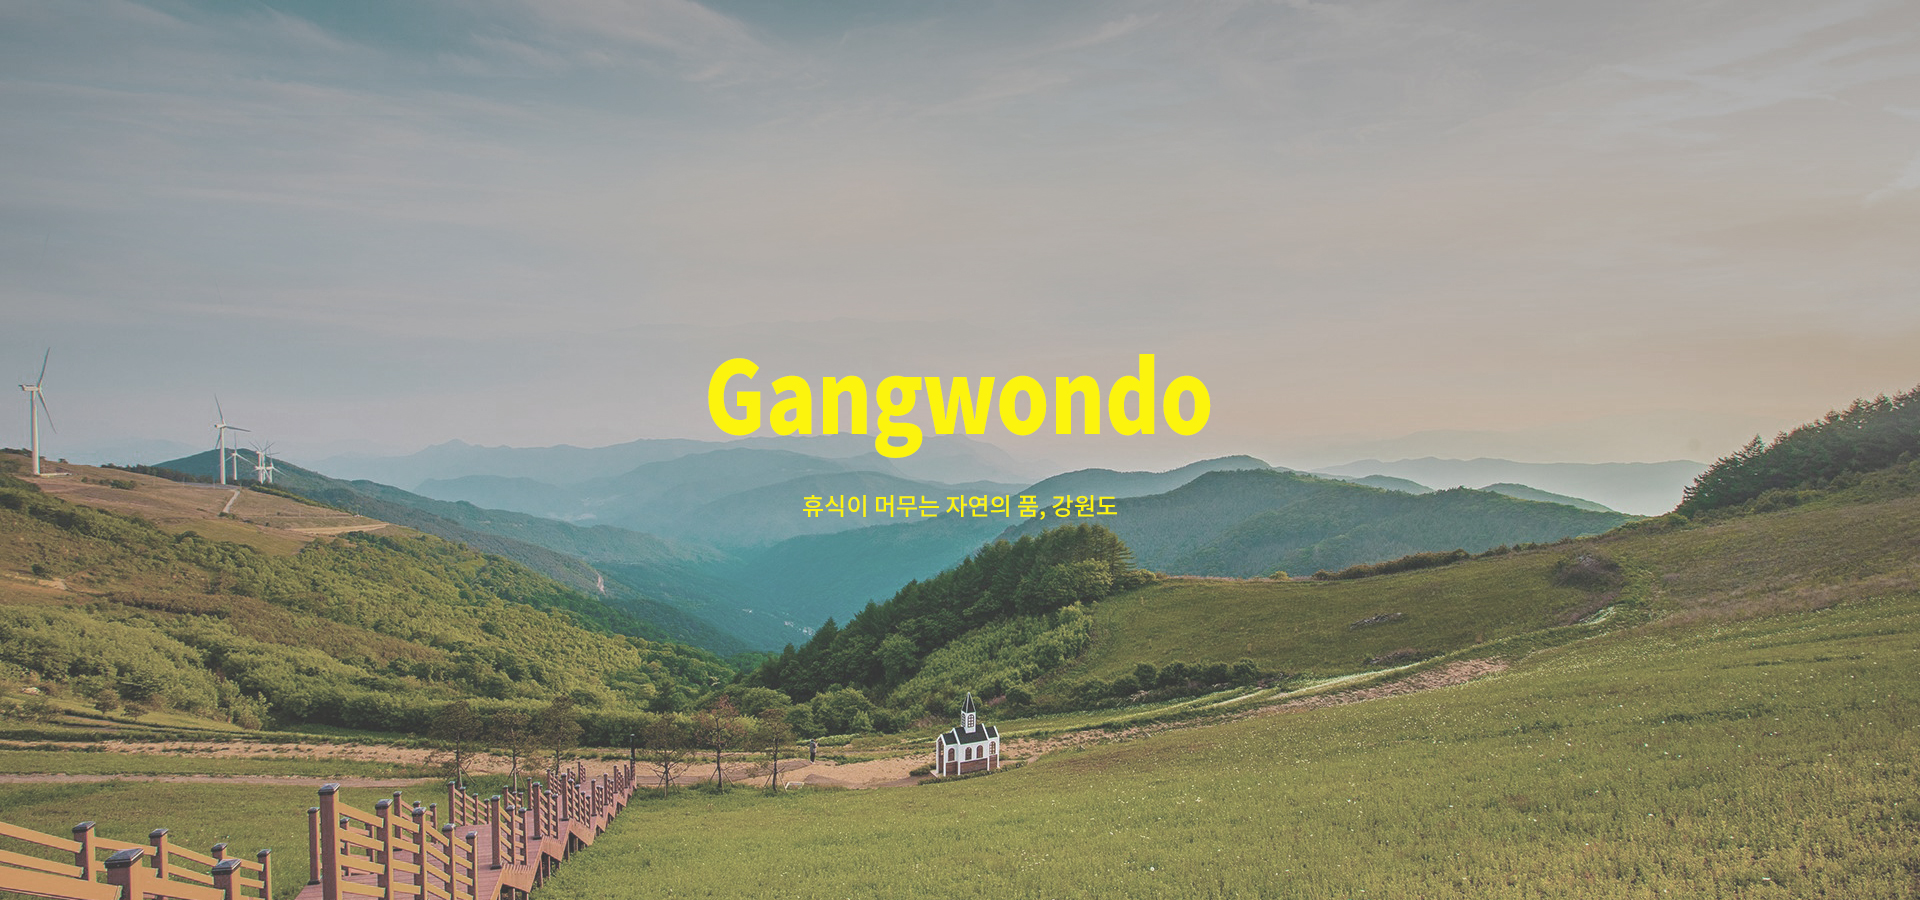
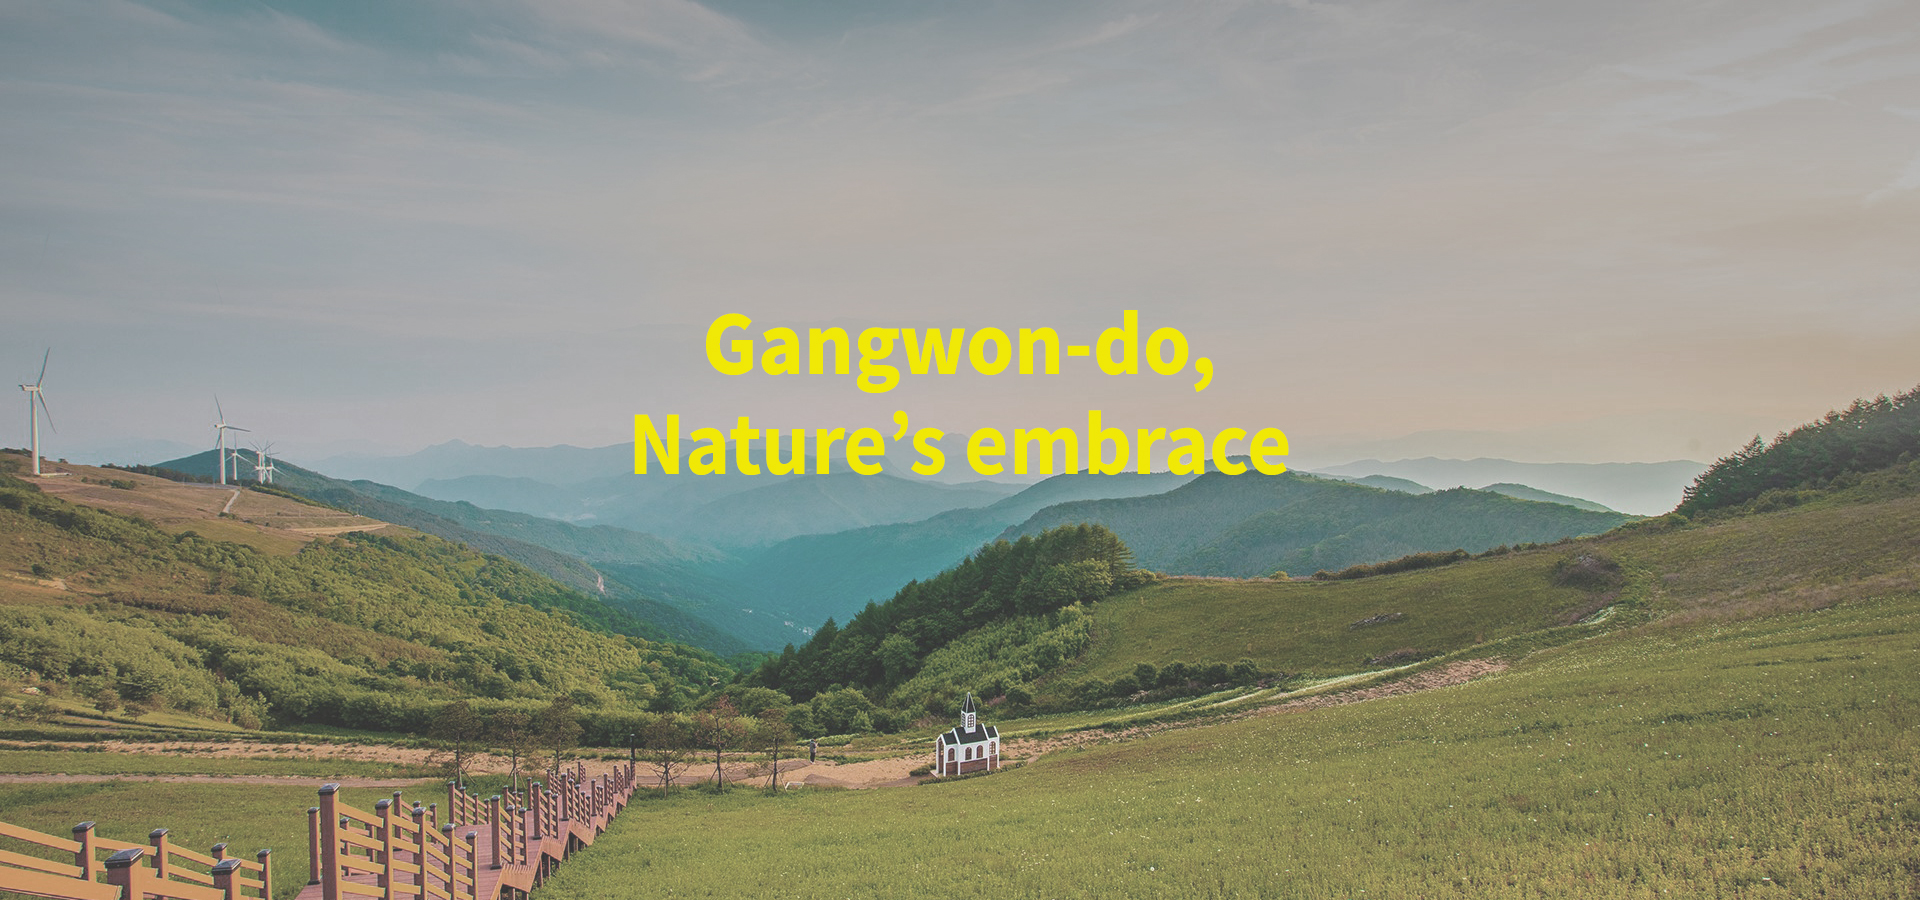
#37 0515 11:46 이미지수정완

Changed region(s): [[0.3125, 0.3422, 0.6875, 0.5911]]

diff --git a/react/src/pages/Area/ChungcheongbukPage.jsx b/react/src/pages/Area/ChungcheongbukPage.jsx
@@ -1,14 +1,13 @@
+import bg1 from "../../assets/images/Chungcheongbuk_bg1.jpg";
+import bg2 from "../../assets/images/Chungcheongbuk_bg2.jpg";
 import RegionPage from "./RegionPage";
-import bg1 from "../../assets/images/Chungcheongbuk_bg1.png";
-import bg2 from "../../assets/images/Chungcheongbuk_bg2.png";
-import bg3 from "../../assets/images/Chungcheongbuk_bg3.png";
 
 
 function ChungcheongbukPage() {
   return (
     <RegionPage
-      regionName="충청북도"
-      backgroundImages={[bg1, bg2, bg3]}
+      // regionName="충청북도"
+      backgroundImages={[bg1, bg2]}
       cities={["단양", "청주", "제천"]}
     />
   );

diff --git a/react/src/pages/Area/ChungcheongnamPage.jsx b/react/src/pages/Area/ChungcheongnamPage.jsx
@@ -1,14 +1,13 @@
+import bg1 from "../../assets/images/Chungcheongnam_bg1.jpg";
+import bg2 from "../../assets/images/Chungcheongnam_bg2.jpg";
 import RegionPage from "./RegionPage";
-import bg1 from "../../assets/images/Chungcheongnam_bg1.png";
-import bg2 from "../../assets/images/Chungcheongnam_bg2.png";
-import bg3 from "../../assets/images/Chungcheongnam_bg3.png";
 
 
 function ChungcheongnamPage() {
   return (
     <RegionPage
-      regionName="충청남도"
-      backgroundImages={[bg1, bg2, bg3]}
+      // regionName="충청남도"
+      backgroundImages={[bg1, bg2]}
       cities={["태안", "공주", "보령"]}
     />
   );

diff --git a/react/src/pages/Area/GyeongsangnamPage.jsx b/react/src/pages/Area/GyeongsangnamPage.jsx
@@ -1,14 +1,13 @@
-import bg1 from "../../assets/images/gangwondo_bg1.jpg";
-import bg2 from "../../assets/images/gangwondo_bg2.jpg";
-import bg3 from "../../assets/images/gangwondo_bg3.jpg";
+import bg1 from "../../assets/images/Gyeongsangnam_bg1.jpg";
+import bg2 from "../../assets/images/Gyeongsangnam_bg2.jpg";
 import RegionPage from "./RegionPage";
 
 
 function GyeongsangnamPage() {
   return (
     <RegionPage
-      regionName="경상남도"
-      backgroundImages={[bg1, bg2, bg3]}
+      // regionName="경상남도"
+      backgroundImages={[bg1, bg2]}
       cities={["통영", "거제", "진주"]}
     />
   );

diff --git a/react/src/pages/Area/GyeongsangbukPage.jsx b/react/src/pages/Area/GyeongsangbukPage.jsx
@@ -1,13 +1,12 @@
-import bg1 from "../../assets/images/gangwondo_bg1.jpg";
-import bg2 from "../../assets/images/gangwondo_bg2.jpg";
-import bg3 from "../../assets/images/gangwondo_bg3.jpg";
+import bg1 from "../../assets/images/Gyeongsangbuk_bg1.jpg";
+import bg2 from "../../assets/images/Gyeongsangbuk_bg2.jpg";
 import RegionPage from "./RegionPage";
 
 function GyeongsangbukPage() {
   return (
     <RegionPage
-      regionName="경상북도"
-      backgroundImages={[bg1, bg2, bg3]}
+      // regionName="경상북도"
+      backgroundImages={[bg1, bg2]}
       cities={["경주", "안동", "포항"]}
     />
   );

diff --git a/react/src/pages/Area/JejuPage.jsx b/react/src/pages/Area/JejuPage.jsx
@@ -1,13 +1,12 @@
-import bg1 from "../../assets/images/gangwondo_bg1.jpg";
-import bg2 from "../../assets/images/gangwondo_bg2.jpg";
-import bg3 from "../../assets/images/gangwondo_bg3.jpg";
+import bg2 from "../../assets/images/Jeju_bg1.jpg";
+import bg1 from "../../assets/images/Jeju_bg2.jpg";
 import RegionPage from "./RegionPage";
 
 function JejuPage() {
   return (
     <RegionPage
-      regionName="제주특별자치도"
-      backgroundImages={[bg1, bg2, bg3]}
+      // regionName="제주특별자치도"
+      backgroundImages={[bg1, bg2]}
       cities={["서귀포", "성산", "애월"]}
     />
   );

diff --git a/react/src/pages/Area/GyeonggidoPage.jsx b/react/src/pages/Area/GyeonggidoPage.jsx
@@ -1,14 +1,13 @@
-import bg1 from "../../assets/images/gangwondo_bg1.jpg";
-import bg2 from "../../assets/images/gangwondo_bg2.jpg";
-import bg3 from "../../assets/images/gangwondo_bg3.jpg";
+import bg1 from "../../assets/images/Gyeonggido_bg1.jpg";
+import bg2 from "../../assets/images/Gyeonggido_bg2.jpg";
 import RegionPage from "./RegionPage";
 
 
 function GyeonggidoPage() {
   return (
     <RegionPage
-      regionName="경기도"
-      backgroundImages={[bg1, bg2, bg3]}
+      // regionName="경기도"
+      backgroundImages={[bg1, bg2]}
       cities={["가평", "수원", "파주  "]}
     />
   );

diff --git a/react/src/pages/Area/JeollabukPage.jsx b/react/src/pages/Area/JeollabukPage.jsx
@@ -1,13 +1,12 @@
-import bg1 from "../../assets/images/gangwondo_bg1.jpg";
-import bg2 from "../../assets/images/gangwondo_bg2.jpg";
-import bg3 from "../../assets/images/gangwondo_bg3.jpg";
+import bg1 from "../../assets/images/Jeollabuk_bg1.jpg";
+import bg2 from "../../assets/images/Jeollabuk_bg2.jpg";
 import RegionPage from "./RegionPage";
 
 function JeollabukPage() {
   return (
     <RegionPage
-      regionName="전라북도"
-      backgroundImages={[bg1, bg2, bg3]}
+      // regionName="전라북도"
+      backgroundImages={[bg1, bg2]}
       cities={["전주", "군산", "남원"]}
     />
   );

diff --git a/react/src/pages/Area/JeollanamPage.jsx b/react/src/pages/Area/JeollanamPage.jsx
@@ -1,13 +1,12 @@
-import bg1 from "../../assets/images/gangwondo_bg1.jpg";
-import bg2 from "../../assets/images/gangwondo_bg2.jpg";
-import bg3 from "../../assets/images/gangwondo_bg3.jpg";
+import bg2 from "../../assets/images/Jeollanam_bg1.jpg";
+import bg1 from "../../assets/images/Jeollanam_bg2.jpg";
 import RegionPage from "./RegionPage";
 
 function JeollanamPage() {
   return (
     <RegionPage
-      regionName="전라남도"
-      backgroundImages={[bg1, bg2, bg3]}
+      // regionName="전라남도"
+      backgroundImages={[bg1, bg2]}
       cities={["여수", "순천", "담양"]}
     />
   );

diff --git a/react/src/pages/Area/SeoulPage.jsx b/react/src/pages/Area/SeoulPage.jsx
@@ -1,13 +1,12 @@
-import bg1 from "../../assets/images/gangwondo_bg1.jpg";
-import bg2 from "../../assets/images/gangwondo_bg2.jpg";
-import bg3 from "../../assets/images/gangwondo_bg3.jpg";
+import bg1 from "../../assets/images/Seoul_bg1.jpg";
+import bg2 from "../../assets/images/Seoul_bg2.jpg";
 import RegionPage from "./RegionPage";
 
 function SeoulPage() {
   return (
     <RegionPage
-      regionName="서울특별시"
-       backgroundImages={[bg1, bg2, bg3]}
+      // regionName="서울특별시"
+       backgroundImages={[bg1, bg2]}
       cities={["강남", "종로", "홍대"]}
     />
   );

diff --git a/react/src/pages/Area/BusanPage.jsx b/react/src/pages/Area/BusanPage.jsx
@@ -1,13 +1,12 @@
+import bg1 from "../../assets/images/Busan_bg1.jpg";
+import bg2 from "../../assets/images/Busan_bg2.jpg";
 import RegionPage from "./RegionPage";
-import bg1 from "../../assets/images/Busan_bg1.png";
-import bg2 from "../../assets/images/Busan_bg2.png";
-import bg3 from "../../assets/images/Busan_bg3.png";
 
 function BusanPage() {
   return (
     <RegionPage
-      regionName="부산광역시"
-      backgroundImages={[bg1, bg2, bg3]}
+      // regionName="부산광역시"
+      backgroundImages={[bg1, bg2]}
       cities={["해운대", "광안리", "서면"]}
     />
   );

diff --git a/react/src/pages/Area/GangwondoPage.jsx b/react/src/pages/Area/GangwondoPage.jsx
@@ -1,13 +1,12 @@
 import bg1 from "../../assets/images/gangwondo_bg1.jpg";
 import bg2 from "../../assets/images/gangwondo_bg2.jpg";
-import bg3 from "../../assets/images/gangwondo_bg3.jpg";
 import RegionPage from "./RegionPage";
 
 function GangwondoPage() {
   return (
     <RegionPage
       // regionName="강원도"
-      backgroundImages={[bg1, bg2, bg3]}
+      backgroundImages={[bg1, bg2]}
       cities={["강릉", "속초", "평창"]}
     />
   );
